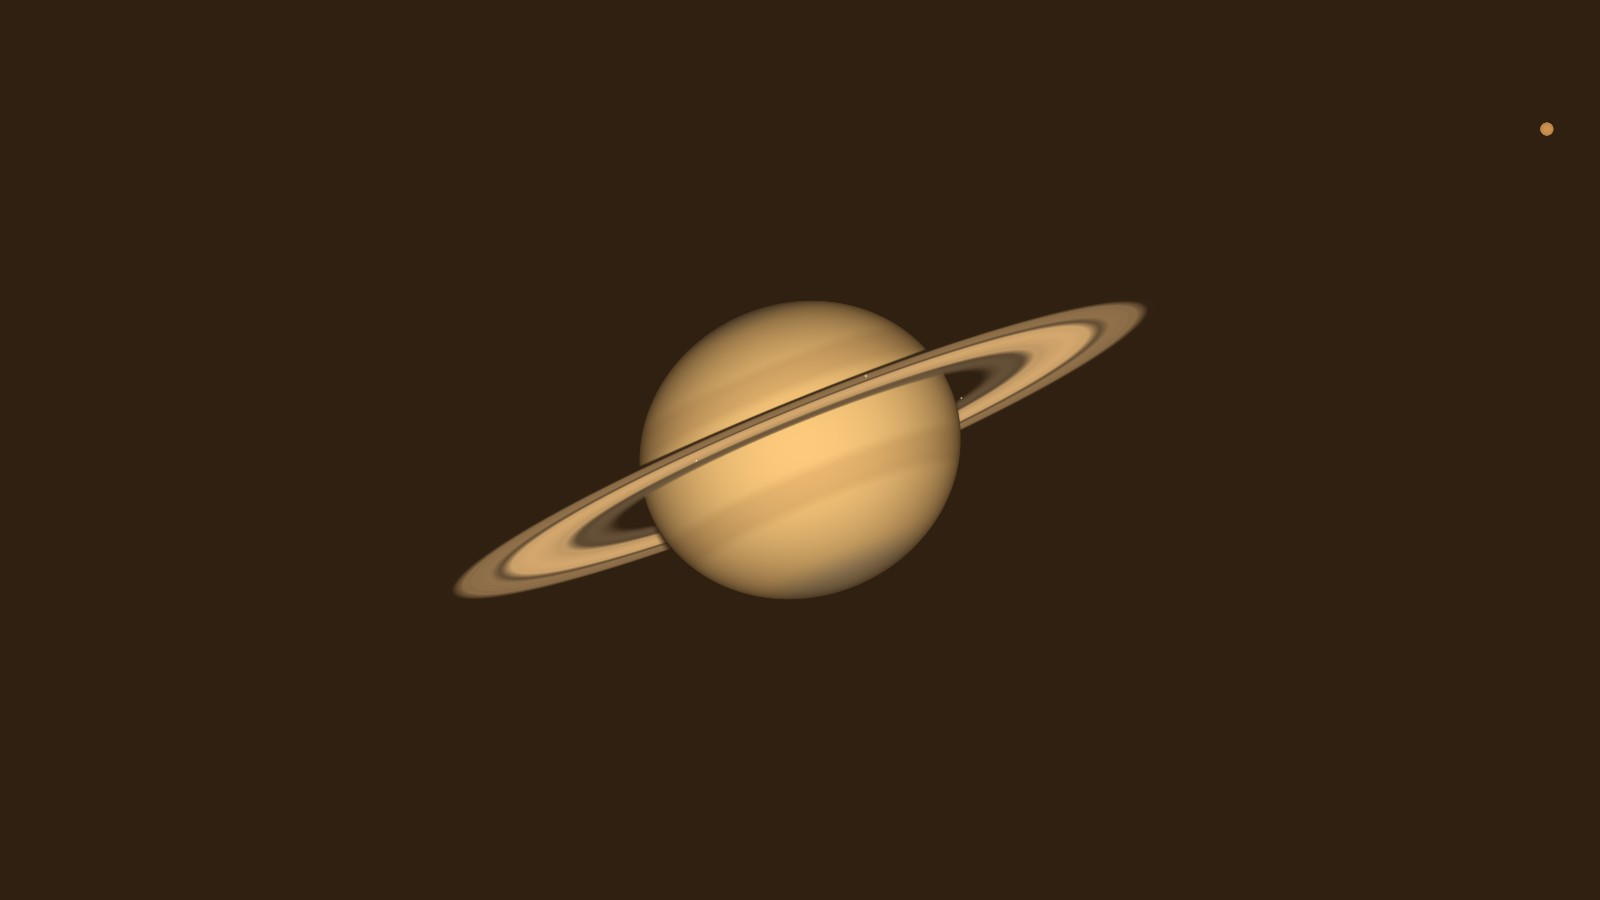
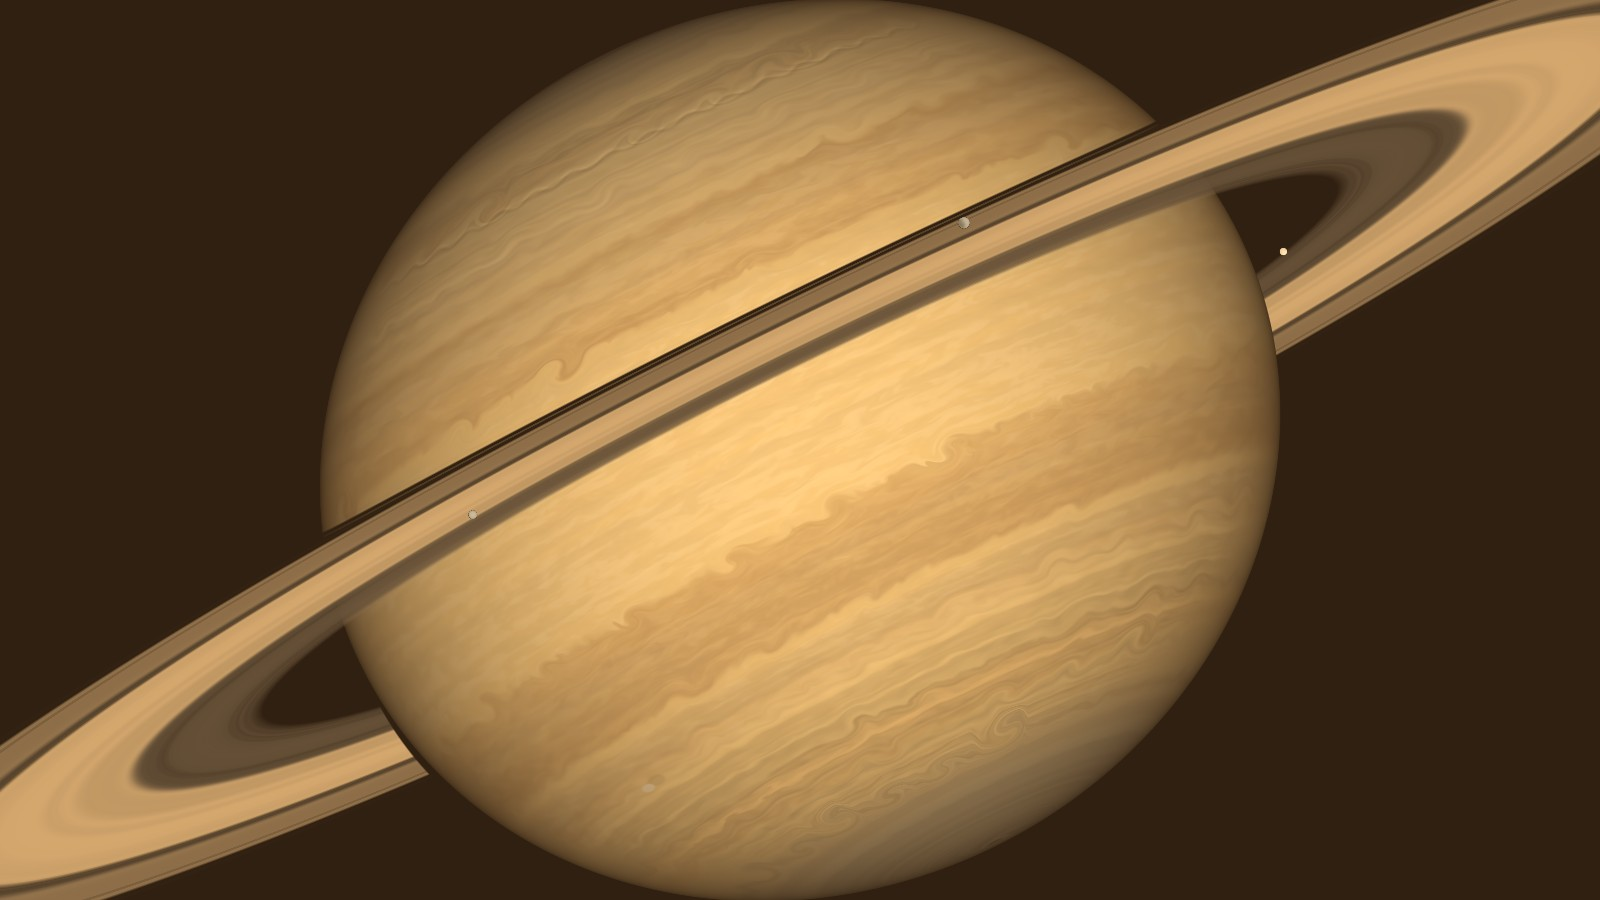
The report draws Saturn close up. Its section opens on the clouds: Jupiter's flow under Cassini's 2004-2009 winds (García-Melendo et al. 2011), the belts where the wind falls off poleward, a haze that halves the stirring, the hexagon (Godfrey 1988), the polar vortices, the ribbon and Storm Alley, an

diff --git a/model/site_src/js/shader_bodies.js b/model/site_src/js/shader_bodies.js
@@ -32,7 +32,7 @@ vec3 grsPaint(vec3 c, vec3 nrm, vec3 n, float lat){
   c=mix(c, vec3(0.95, 0.91, 0.82), 0.85*(1.0-smoothstep(1.2, 1.45, e)));
   return mix(c, vec3(0.80, 0.42, 0.30), grsAB.w*(1.0-smoothstep(0.8, 1.0, e))*(0.85+0.15*smoothstep(0.0, 0.7, e)));
 }
-// Saturn's colour with the season (bodyDisk, planets.js satSeason), sl the sine of the Sun's latitude
+// Saturn's color with the season (bodyDisk, planets.js satSeason), sl the sine of the Sun's latitude
 // on it: the winter hemisphere, out of the Sun, clears of the haze that yellows the summer one and
 // shows bluish, as Cassini saw the north in 2004-2009 (it turned golden again by about 2016). The
 // change lags the season by several years; drawn without the lag.
@@ -51,7 +51,7 @@ vec3 satSeason(vec3 c, float lat, float sl){
 // hot spots at their heads; barges; the chain of white ovals in the South South Temperate Belt;
 // and the bands wandering, darkening and stirring along their length.
 // Saturn the same flow with its own winds and bands (one program has one of them, DETAIL_JUP or
-// DETAIL_SAT), after Cassini's images: calmer, its colours muted by the haze above the clouds, finer
+// DETAIL_SAT), after Cassini's images: calmer, its colors muted by the haze above the clouds, finer
 // banding toward the poles; the hexagon about the north pole; the polar vortices; the ribbon wave
 // on the jet at 47°N; the storms of Storm Alley at 40°S.
 // The zonal wind (m/s, east positive) at planetographic latitude lat as a sum of Gaussian jets;
@@ -185,7 +185,7 @@ vec2 khRoll(vec2 q, float b, float N, float R, float ang, float seed, float cl){
 // longitude, or the sine of the Sun's latitude on Saturn; T days (fineT.y). The clouds are a
 // tracer: each point is turned by the billows, then followed back along the eddies' streamlines
 // and round the Red Spot, which roll the edges of the belts and zones and the finer banding within
-// them into curls and filaments, sheared out along the winds; the colour is the banding where it
+// them into curls and filaments, sheared out along the winds; the color is the banding where it
 // ends up. Then Jupiter's festoons and hot spots, barges and white ovals, or Saturn's hexagon,
 // polar vortices, ribbon and storms.
 vec3 cloudAlbedo(float lat, float lon, float pxD, float aux){
@@ -351,7 +351,7 @@ vec3 cloudAlbedo(float lat, float lon, float pxD, float aux){
   // The hexagon: the jet at 78°N meanders in a standing wave of six (Godfrey 1988), fixed in
   // System III, its sides 13,800 km long, at 77.7°N midway along each and 75.9°N at its corners
   // (where its corners lie in longitude is not known here). The jet itself a dark lane, a little
-  // ragged; inside it the clouds bluish-grey in the north's winter, golden by its summer (Cassini,
+  // ragged; inside it the clouds bluish-gray in the north's winter, golden by its summer (Cassini,
   // 2012-2016).
   float pc=90.0-abs(lat), sg=sign(lat), fw=max(pxD, 0.3);
   if(lat>65.0){

diff --git a/model/report_view.py b/model/report_view.py
@@ -182,6 +182,19 @@ JUPITER = [
 ]
 
 SATURN = [
+"Saturn close up is drawn as Jupiter is, a tracer stirred by the same flow, with its own winds, bands and "
+"colors. The winds are Cassini's at the cloud tops in 2004–2009 (García-Melendo et al. 2011), fit by twenty "
+"Gaussian jets to 6 m/s rms in System III, which also turns the planet: the broad equatorial jet near "
+"400 m/s, and narrower jets alternating with latitude toward the poles. The belts lie where the wind falls "
+"off poleward, as Jupiter's do, the broad pair at 18–32° and fainter, narrower ones beyond. Saturn's haze "
+"mutes all of it, so the eddies stir about half as hard as Jupiter's, the billows turn less, and the hues "
+"vary a half to a third as much. Around the north pole the jet at 78°N meanders in a standing wave of six, "
+"the hexagon (Godfrey 1988), golden inside in the northern summer and bluish gray in the winter; both poles "
+"have a vortex with a dark eye and a bright wall, a thin ribbon wave runs along the jet at 47°N, and small "
+"bright storms rise in Storm Alley near 40°S. The winter hemisphere, out of the Sun, shows bluish at any "
+"size, as Cassini saw the north before 2009. That change lags the season by several years, and the lag is "
+"not drawn.",
+
 "Saturn's rings are drawn from the Cassini radio occultation of 3 May 2005 (Marouf et al.), its optical "
 "depth at 10 km resolution from the C ring to the outer A ring, corrected to visible light in the C ring, "
 "the Cassini division and the outer A ring by the Ka-band occultation (whose sub-centimetre particles "
@@ -189,7 +202,10 @@ SATURN = [
 "al. 1984): lit from the Sun's side it shines by its depth and particle brightness, the A ring 0.7 of the "
 "B ring's and the C ring and Cassini division half of it and grayer; seen from the unlit side only light "
 "passing through it shows, so the B ring is black and the C ring and Cassini division glow. The rings "
-"shadow the globe and the globe the rings, and edge-on they thin below a pixel.",
+"shadow the globe, and the globe shadows the rings with its oblate outline and a penumbra the Sun's width. "
+"Near the equinoxes, when the Sun is low over the rings, they shadow the moons too: a moon passing behind "
+"them is banded by their shadow and dimmed by what they let through, Mimas by up to 4 magnitudes deep in "
+"the B ring's. Edge-on, the rings thin below a pixel.",
 
 "The rings are young. How young is still argued, 100 to 400 million years (Iess et al. 2019; Kempf et al. "
 "2023), and the page takes the account of Wisdom et al. (2022): an icy moon the size of Iapetus, named "
@@ -433,14 +449,14 @@ INTRO = [
 
 "The site computes what it shows as realistically as it can while still loading in seconds and running "
 "smoothly in a browser, and where the two conflict it compromises. Some compromises stand in for physics too "
-"costly to run. Jupiter's clouds are a tracer stirred by a flow made of noise, shaped by the measured winds and "
-"rolled into eddies and billows, a proxy for the planet's true three-dimensional hydrodynamics rather than a "
-"simulation of it; its animation repeats over a 2000-day cycle. The sky's multiple scattering is a two-stream "
+"costly to run. Jupiter's and Saturn's clouds are a tracer stirred by a flow made of noise, shaped by the measured "
+"winds and rolled into eddies and billows, a proxy for the planets' true three-dimensional hydrodynamics rather "
+"than a simulation of it; the animation repeats over a 2000-day cycle. The sky's multiple scattering is a two-stream "
 "approximation rather than a full Monte Carlo transfer, computed ahead of time on a grid of Sun heights and "
 "interpolated between them. The clouds are scenery, procedural volumes lit by the model's sky rather than the "
 "output of a climate model, and the Milky Way is a model of its structure rather than a photograph. The "
 "photosphere's granulation and the Moon's craters' shadows are drawn from procedural cells and a limited march "
-"toward the Sun, and the close-up detail of Jupiter, the Sun and the spacecraft maps is built only when the view "
+"toward the Sun, and the close-up detail of Jupiter, Saturn, the Sun and the spacecraft maps is built only when the view "
 "zooms in on them. Other compromises are made for the eye: the Sun and Moon are drawn at four times their size, "
 "the sunset's colors are spread further apart than they are, and the Sun's limb darkening is softened. Each "
 "section says where its subject is measured, modeled or approximated.",

diff --git a/model/report_refs.py b/model/report_refs.py
@@ -58,6 +58,8 @@ BIB += r"""
 @article{odert2018, author={Odert, Petra and Lammer, Helmut and Erkaev, Nikolai V. and others}, title={Escape and fractionation of volatiles and noble gases from {Mars}-sized planetary embryos and growing protoplanets}, journal={Icarus}, volume={307}, pages={327--346}, year={2018}}
 @inproceedings{becker2016, author={Becker, K. J. and Robinson, M. S. and Becker, T. L. and others}, title={First global digital elevation model of {Mercury}}, booktitle={47th Lunar and Planetary Science Conference}, pages={2959}, year={2016}}
 @article{porco2003, author={Porco, Carolyn C. and West, Robert A. and McEwen, Alfred and others}, title={Cassini imaging of {Jupiter}'s atmosphere, satellites, and rings}, journal={Science}, volume={299}, pages={1541--1547}, year={2003}}
+@article{garciamelendo2011, author={Garc{\'i}a-Melendo, Enrique and P{\'e}rez-Hoyos, Santiago and S{\'a}nchez-Lavega, Agust{\'i}n and Hueso, Ricardo}, title={Saturn's zonal wind profile in 2004--2009 from {Cassini} {ISS} images and its long-term variability}, journal={Icarus}, volume={215}, pages={62--74}, year={2011}, doi={10.1016/j.icarus.2011.07.005}}
+@article{godfrey1988, author={Godfrey, D. A.}, title={A hexagonal feature around {Saturn}'s north pole}, journal={Icarus}, volume={76}, pages={335--356}, year={1988}, doi={10.1016/0019-1035(88)90075-9}}
 @article{simon2018, author={Simon, Amy A. and Tabataba-Vakili, Fachreddin and Cosentino, Richard and others}, title={Historical and contemporary trends in the size, drift, and color of {Jupiter}'s {Great Red Spot}}, journal={Astronomical Journal}, volume={155}, pages={151}, year={2018}}
 @article{jerousek2016, author={Jerousek, Richard G. and Colwell, Joshua E. and Esposito, Larry W. and others}, title={Small particles and self-gravity wakes in {Saturn}'s rings from {UVIS} and {VIMS} stellar occultations}, journal={Icarus}, volume={279}, pages={36--50}, year={2016}}
 @incollection{cuzzi1984, author={Cuzzi, Jeffrey N. and Lissauer, Jack J. and Esposito, Larry W. and others}, title={Saturn's rings: properties and processes}, booktitle={Planetary Rings}, editor={Greenberg, Richard and Brahic, Andr{\'e}}, publisher={University of Arizona Press}, pages={73--199}, year={1984}}

diff --git a/model/report_figs.py b/model/report_figs.py
@@ -35,7 +35,7 @@ SHOTS = {
     'sats2100':     dict(moment='Satellites at dusk, 2100'),
     # Telescope views, framed by the find tool and zoomed past it.
     'jupiter':      dict(epoch='modern', date='2026-10-11', t=240, look={'find': 'Jupiter'}, zoom=0.55, clouds=False, wait=8000),
-    'saturn':       dict(epoch='modern', date='2026-10-11', t=1320, look={'find': 'Saturn'}, zoom=0.6, clouds=False, wait=8000),
+    'saturn':       dict(epoch='modern', date='2026-10-11', t=1320, look={'find': 'Saturn'}, zoom=0.2, clouds=False, wait=10000),
 }
 
 JS_HIDE = """(()=>{const s=document.createElement('style');s.textContent='.vrui,.vrhud,.vrtop,.vrbot,.vrkeys,.vrpad,.vrnote,.vrmini,.vrwalk,.vrstick,#vrtip,#vrload,#vrprep,#sunmark,#moonmark,#snmark{display:none!important}';document.head.appendChild(s);return 1})()"""
@@ -58,8 +58,11 @@ def js_shot(s):
   }
   for(let i=0;i<120&&!vrOn;i++) await sl(250);
   await sl(2500);
+  // Entering starts the clock, sometimes only after the shaders load: paused once it has started.
+  for(let i=0;i<40&&!dayPlaying;i++) await sl(250);
   if(dayPlaying) document.getElementById('hplay').click();
-  if(S.look&&S.look.find){ findStart(%s); await sl(9000); vrFind=null; }
+  // The flight may not have ended; the view is then centered on the found thing itself.
+  if(S.look&&S.look.find){ const T=%s; findStart(T); await sl(9000); vrFind=null; const w=findWhere(T); if(w){ vrYaw=w.az; vrPitch=Math.asin(w.d[2])*180/Math.PI; } }
   if(S.fov) vrFov=S.fov; else if(S.zoom) vrFov*=S.zoom;
   if(S.look&&!S.look.find&&!S.moment){ vrYaw=S.look[0]; vrPitch=S.look[1]; }
   requestVR(); await sl(S.wait||5000);

diff --git a/model/gen_report.py b/model/gen_report.py
@@ -419,7 +419,7 @@ def blocks():
     B.append(S('Jupiter')); B += ps(*rv.JUPITER)
     B.append(fig(view('jupiter'), "Jupiter close up in the modern sky, as the site's telescope view draws it: belts and zones marbled by eddies, Kelvin–Helmholtz billows along their edges, and the Great Red Spot, a vortex in the same flow, at its 2026 size.", 'fig:jupiter'))
     B.append(S('Saturn and its rings')); B += ps(*rv.SATURN)
-    B.append(fig(view('saturn'), "Saturn and its rings in the modern sky through the site's telescope view, from the Cassini occultation profile with single-scattering photometry.", 'fig:saturn'))
+    B.append(fig(view('saturn'), "Saturn close up in the modern sky on 11 October 2026, the globe filling the site's telescope view. Its belts are stirred by the flow drawn for Jupiter, under Cassini's winds and calmer, its hues muted by the haze. The rings, open 7° a year after the 2025 ring-plane crossing, are drawn from the Cassini occultation profile with single-scattering photometry and cast their shadow on the globe as the dark band just north of them; moons pass in front.", 'fig:saturn'))
     B.append(S("The planets' moons")); B += ps(*rv.MOONS)
 
     B.append(P('The stars and the Galaxy', 'stars'))
